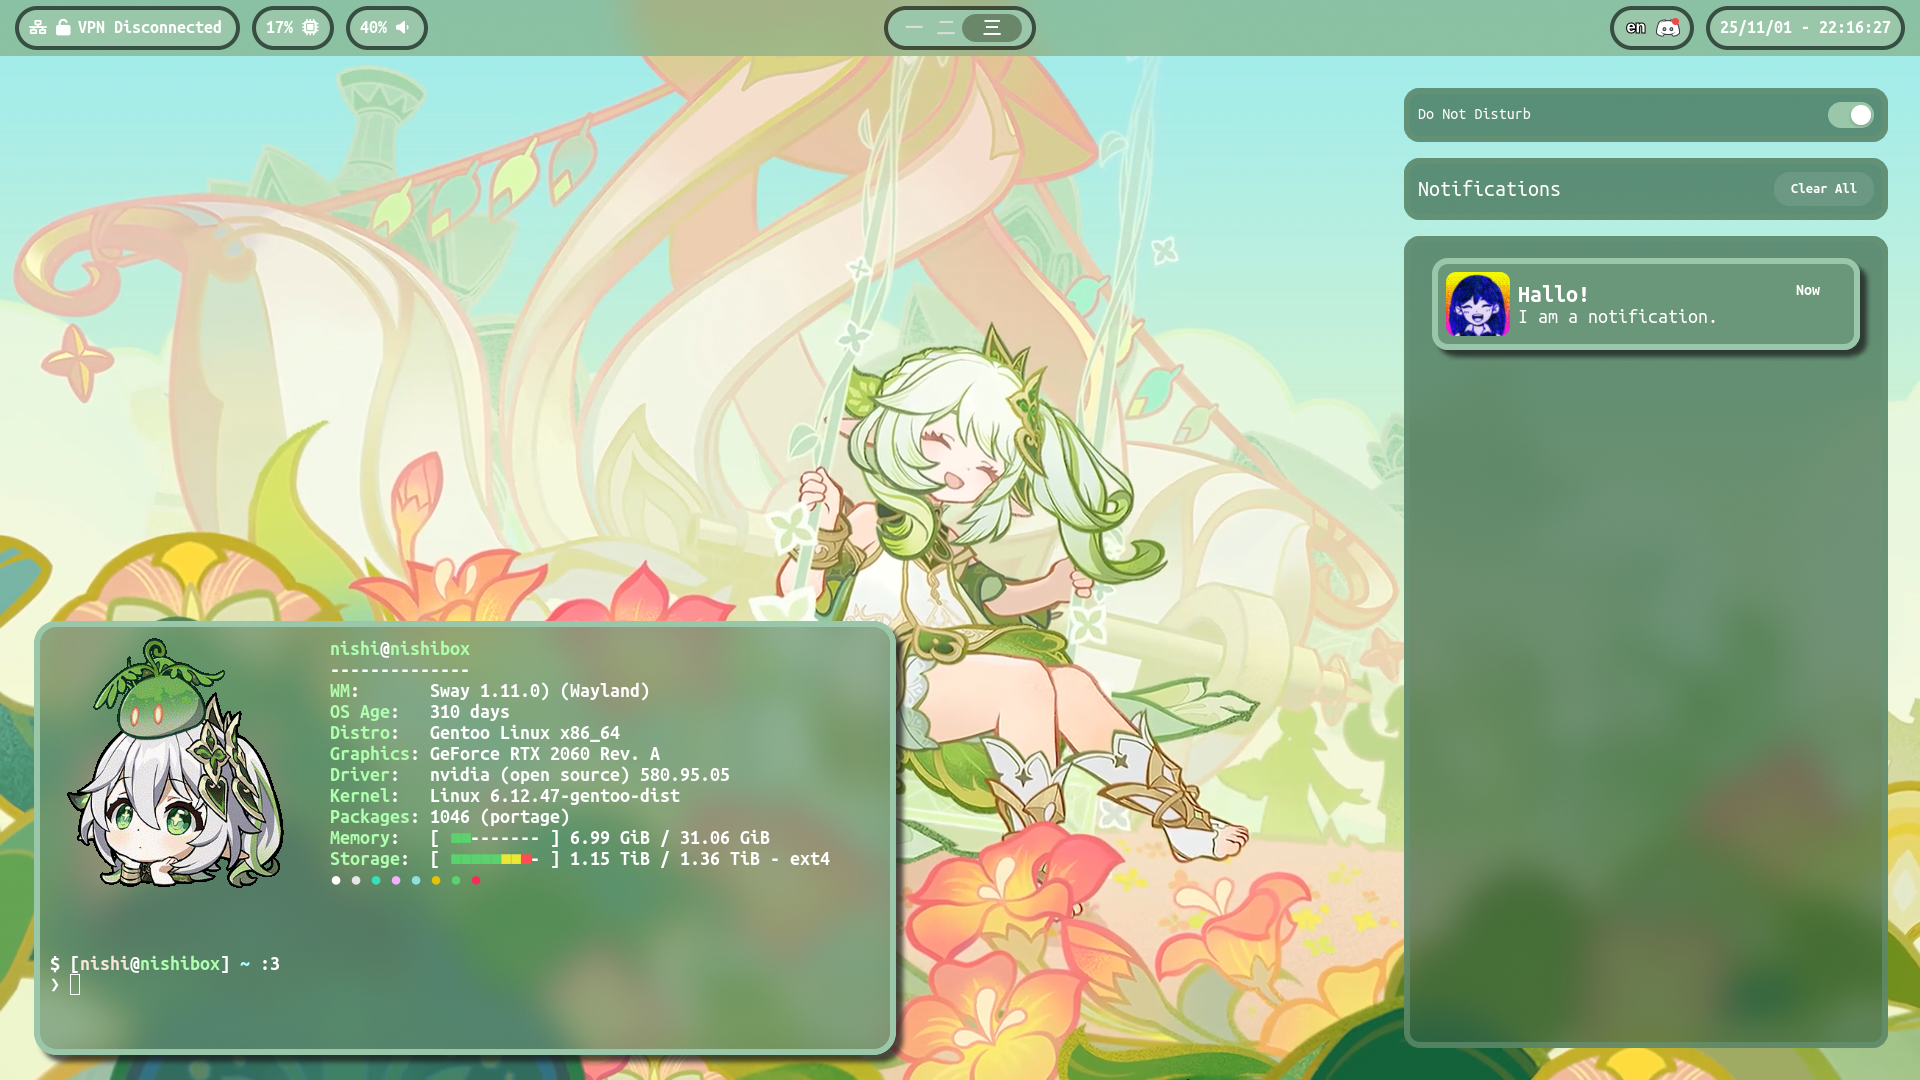
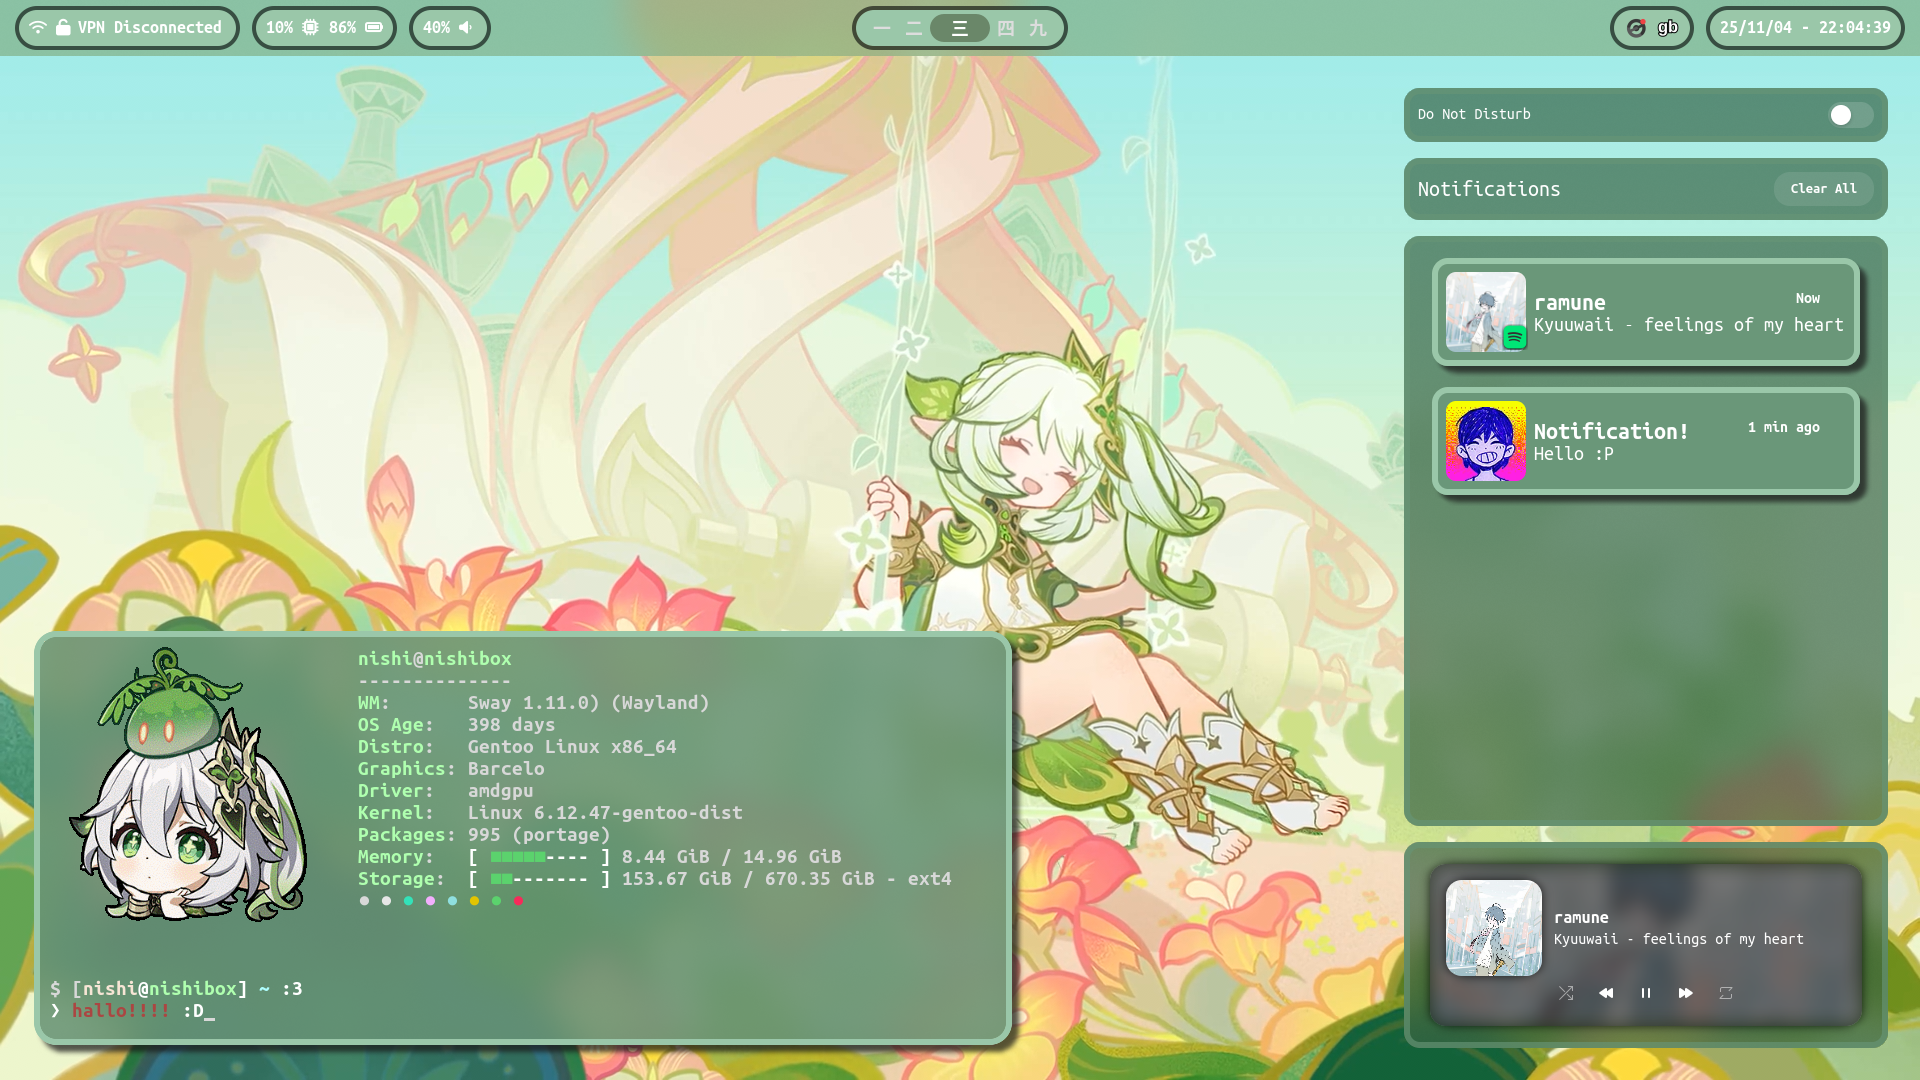
update pictures (and slight swaync adjustment) 	modified:   .config/sway/extra/themes/green/swaync/style.css 	modified:   .config/swaync/config.json 	modified:   screenshot3.png 	modified:   screenshot4.png

diff --git a/.config/sway/extra/themes/green/swaync/style.css b/.config/sway/extra/themes/green/swaync/style.css
@@ -15,7 +15,7 @@
   --text-color: rgb(255, 255, 255);
   --text-color-disabled: rgb(150, 150, 150);
   --bg-selected: rgb(0, 128, 255);
-  --notification-icon-size: 64px;
+  --notification-icon-size: 80px;
   --notification-app-icon-size: calc(var(--notification-icon-size) / 3);
   --notification-group-icon-size: 32px;
   --border-size: 6px;
